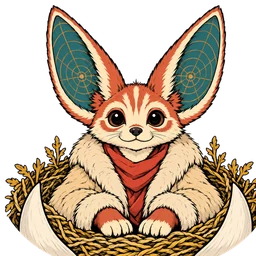
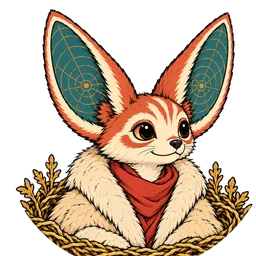
Turn Quill's and Ysel's head pictures to three-quarter view
Head pictures now use the same view as the full body instead of looking
straight into the camera.

Claude-Session: https://claude.ai/code/session_01XFXXMgePZ9xSxNekPRo2Yc

diff --git a/.claude/skills/hero-art/SKILL.md b/.claude/skills/hero-art/SKILL.md
@@ -16,7 +16,7 @@ Read first: the hero in `docs/heroes.md` (story, look, **fixed marks**, skin slo
 |---|---|---|---|
 | Model sheet | Not in the app. The fixed reference for every later picture and for skins. | 16:9, front + three-quarter + back, same scale and baseline | flat light grey `#c8c8c8` |
 | Full body | Hero choice (shown at 200×240 pt), hero popup, Credits shop | 4:5, three-quarter view, whole figure with margin | flat light grey, cut out afterwards |
-| Head picture | Hero ring (r 30/40 pt), hero badges (r 18–30 pt: shop, free pick, run end, progress, fight bar) | 1:1, head and shoulders, fixed marks centred so they fit in a circle | flat light grey, cut out, put on a disc |
+| Head picture | Hero ring (r 30/40 pt), hero badges (r 18–30 pt: shop, free pick, run end, progress, fight bar) | 1:1, head and shoulders, same three-quarter view and head turn as the full body (not looking straight into the camera, Ilja 2026-11-18), fixed marks centred so they fit in a circle | flat light grey, cut out, put on a disc |
 | Home scene | Behind the hero choice, shop offer, website/store (crop to landscape) | 9:16 | painted scene |
 
 Locked and silhouette states are drawn by code; skins and hero level rewards come later (a skin swaps only the
